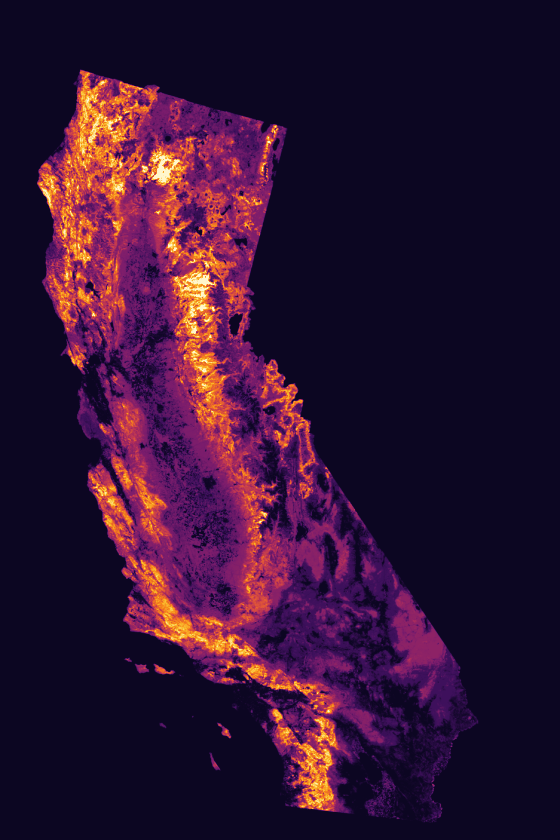
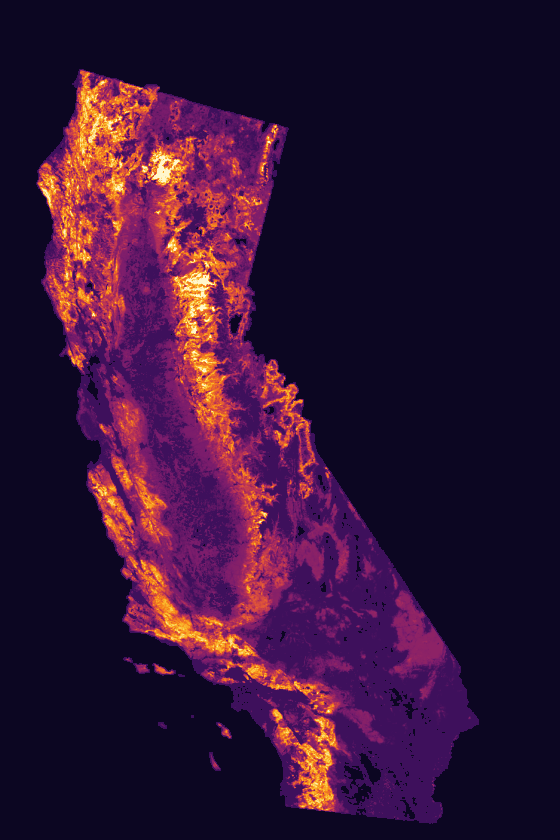
Fix fire-layer no-data; drop named wins; add credits; homepage rewords
DATA CORRECTION - the documentation is wrong on this and needs fixing at
source. Sampled the rasters directly: Fire_ELMFire_FL, _ROS and
_BurnProbabilityRelative store masked ground as 0, not -9999. Their minimum
is 0 and -9999 never occurs. Ocean, Lake Tahoe and the Central Valley all
read 0 in those three while Veg_TreeFrac, Carbon_AGB and WaterFlux_Runoff
correctly read -9999 at the same points.

Consequences fixed:
- explore.html now sets nodata per layer, so those three no longer render
  the Pacific as data. Added the caveat that non-burnable ground inside the
  mask is also 0, so blank can mean "nothing would burn" as well as "no data"
- the same wrong claim corrected on data.html, use.html and the README
- homepage flame-length render regenerated with 0 as the fill, so the ocean
  is transparent instead of dark

Named comparisons - now asymmetric by design. Removed the four places that
named Pyrologix while beating them: the hub's "ahead" bullet, the flame
length one-liner, its cross-dataset strength line, and the panel d caption,
which now describes the test without declaring a winner. The figure still
shows both. Every remaining named comparison runs against us (Moran on all
four overlapping years). Section retitled from "wins and loses" to "strong
and falls short".

Credits - ELMFIRE and Chris Lautenberger (Reax Engineering) now credited by
name in About, plus a new "Built on other people's work" section covering
[…]

diff --git a/index.html b/index.html
@@ -348,11 +348,11 @@
 <!-- intro prose -->
 <section class="intro">
   <div class="wrap">
-    <p>Every property is expressed in physical units already in common use across the management and research communities, and all of them are calculated from the ground floor up by a single pipeline — which is what makes them consistent with one another, and over four decades.</p>
+    <p>Every property is expressed in physical units already in common use across the management and research communities, and all of them are calculated from the ground floor up by a single pipeline — which is what makes them consistent with one another, and over four decades. Each release reprocesses the whole record rather than appending new years; v2027, covering 1985 through water year 2026, is expected in November 2026.</p>
 
-    <p>Because vegetation, water, carbon, fuels and disturbance are all derived on one grid by one pipeline, questions that span themes — how evapotranspiration responds to canopy loss after a fire, say — can be asked directly, without first reconciling three products' grids, masks and epochs.</p>
+    <p>Because vegetation, water, carbon, fuels and disturbance are all derived on one grid by one pipeline, questions that span themes — for example, how evapotranspiration responds to canopy loss after a fire — can be asked directly, without having to first find, assemble and reconcile disparate datasets.</p>
 
-    <p>Produced by university scientists and shared freely under CC BY. Every release reprocesses the full record rather than appending new years: <strong>v2027, covering 1985 through water year 2026, is expected in November 2026.</strong></p>
+    <p>Produced by university scientists and shared freely under CC BY.</p>
 
     <p><strong>How good is it?</strong> Each layer is checked against independent reference data - field plots, flux towers, stream gauges, aerial survey - and the comparisons are published in full, layer by layer, including where the Almanac is weaker than the alternatives. Some layers are better constrained than others, and the differences matter for what you can ask of them.</p>
 
@@ -370,8 +370,7 @@
   <div class="wrap">
     <div class="scope-frame">
       <h2>What it covers</h2>
-      <p>The Almanac maps the vegetated, non-irrigated land surface of California - and the contiguous U.S. - <strong>managed and unmanaged forests, shrublands, and grasslands</strong>, from the backcountry to the wildland&ndash;urban interface. The data are produced wall&#8209;to&#8209;wall and then masked to exclude areas such as open water, urbanized land, and intensively managed cropland.</p>
-      <p>The dataset includes wilderness, intermix and interface areas, managed forests and plantations, and stands recently thinned, cut, or burned.</p>
+      <p>The Almanac maps the vegetated, non-irrigated land surface of California - and the contiguous U.S. - <strong>managed and unmanaged forests, shrublands, and grasslands</strong>, from the backcountry to the wildland&ndash;urban interface &mdash; including plantations and stands recently thinned, cut, or burned. The data are produced wall&#8209;to&#8209;wall and then masked to exclude areas such as open water, urbanized land, and intensively managed cropland.</p>
     </div>
   </div>
 </section>
@@ -442,9 +441,7 @@
 
       <div class="show-text">
         <h2>See it before you download it</h2>
-        <p><strong>Flame length, water year 2025.</strong> What would burn if a fire arrived under
-        typical local weather &mdash; the Sierra crest and the Coast Ranges bright, the Central
-        Valley masked out because it is not wildland.</p>
+        <p><strong>Flame length, water year 2025.</strong> What would burn if a fire arrived under typical local weather &mdash; brightest along the Sierra crest and through the Coast Ranges, with farmland and urban ground dropping out where the wildland mask excludes them.</p>
         <p>Every one of the 21 properties opens the same way: pick a layer and a year and it streams
         straight into your browser from cloud storage, with the colour range and no-data value
         already set. Nothing to install, nothing to download, no account.</p>
@@ -485,7 +482,7 @@
       <a class="card-link" id="benchmarking" href="benchmarking.html">
         <span class="k">03 · How good is it</span>
         <h3>Benchmarking</h3>
-        <p>What every layer was tested against, on three axes, with strengths and weaknesses at equal detail — including where the Almanac loses to the alternatives, and which comparisons are circular.</p>
+        <p>What the layers were tested against, on three axes, with strengths and weaknesses at equal detail — including where the Almanac loses to the alternatives, and which comparisons are circular.</p>
         <span class="go">See the results →</span>
       </a>
       <a class="card-link" id="use" href="use.html">
@@ -513,7 +510,7 @@
       </div>
       <div>
         <h4>Cite as</h4>
-        <div class="cite">Goulden, M.L. (2026). The Wildland Almanac - California (Version v2026.1). Source&nbsp;Cooperative. DOI:&nbsp;[to be assigned]. Released under CC&nbsp;BY.</div>
+        <div class="cite">Goulden, M.L. (2026). The Wildland Almanac - California (Version v2026.1). Source&nbsp;Cooperative. DOI:&nbsp;[pending &ndash; EZID]. Released under CC&nbsp;BY.</div>
         <p style="font-size:13px;color:var(--muted);margin:10px 0 0">Use of these data is subject to the University of California disclaimer. <a href="data.html#license">License &amp; terms →</a></p>
       </div>
     </div>
@@ -544,6 +541,9 @@
 </script>
 </body>
 </html>
+
+
+
 
 
 

diff --git a/about.html b/about.html
@@ -158,6 +158,27 @@
     <h2>How the data are produced</h2>
     <p>The Wildland Almanac is built from the full Landsat archive through a unified pipeline of roughly thirty programs - written mostly in MATLAB and R - that run sequentially under one code base. The pipeline is built to be re-run end-to-end for each annual update, which is what makes it possible to reprocess the entire 1985-onward time series consistently with every release rather than splicing new years onto old. Production runs on UCI&rsquo;s <a href="https://rcic.uci.edu/hpc3/hpc3.html">HPC3 cluster</a> and consumes approximately one million core-hours annually and 800&nbsp;TB of storage.</p>
     <p>The methodological backbone is straightforward: Landsat observations are processed through the <a href="https://github.com/GERSL">COLD</a> change-detection package to identify disturbances and to synthesize gap-free imagery for each pixel and year; those synthetic images are combined with top-tier training data (the <a href="https://rangeland.ntsg.umt.edu/data/rap/chm-naip/chm/">ALS-derived canopy-height model</a> of Allred et al. for height; FIA plots for biomass; AmeriFlux towers for water and carbon fluxes; and so on); and the resulting properties are estimated with gradient-boosted machine learning (XGBoost and LightGBM) or regressions. Additional information on training data and methods for each property is in <a href="data.html">The Data</a>, how well each one performs is in <a href="benchmarking.html">Benchmarking</a>, and the full specifications are in the <a href="https://data.source.coop/wildland-almanac/california/WildlandAlmanac_CA_Documentation.pdf">documentation PDF</a>.</p>
+    <p>The fire-behaviour layers are computed with <a href="https://elmfire.io/">ELMFIRE</a>, the open-source fire spread model developed by <strong>Chris Lautenberger</strong> at Reax Engineering. Being able to run a capable, well-documented, openly licensed fire model at statewide scale for forty-one years is the reason those layers exist at all, and it saved this project years. We are glad to say so.</p>
+  </div>
+</section>
+
+<section class="block">
+  <div class="wrap">
+    <h2>Built on other people's work</h2>
+    <p class="sec-lede">The Almanac is an assembly as much as an invention. Nearly every layer rests on
+    a model, an algorithm or a field campaign that someone else built and chose to share. These are the
+    ones it leans on hardest.</p>
+    <div class="compare">
+      <div class="r"><div class="n">Landsat</div><div class="d">USGS and NASA. Forty-one continuous years of free, calibrated, openly licensed imagery is the single thing that makes a record like this possible.</div></div>
+      <div class="r"><div class="n"><a href="https://elmfire.io/">ELMFIRE</a></div><div class="d">Chris Lautenberger, Reax Engineering. The open-source fire spread model behind flame length, rate of spread and burn probability.</div></div>
+      <div class="r"><div class="n"><a href="https://github.com/GERSL">COLD / CCDC</a></div><div class="d">Zhe Zhu and the Global Environmental Remote Sensing Lab. Change detection and the gap-free synthetic imagery every other layer is built from.</div></div>
+      <div class="r"><div class="n"><a href="https://rangelands.app/">RAP</a></div><div class="d">Rangeland Analysis Platform. Training data for shrub, herbaceous and bare cover, and the <a href="https://rangeland.ntsg.umt.edu/data/rap/chm-naip/chm/">ALS canopy-height model</a> of Allred et al. that the height layer is trained on.</div></div>
+      <div class="r"><div class="n"><a href="https://landfire.gov/fuel">LANDFIRE</a></div><div class="d">Fuel model, canopy base height and bulk density training, plus the static terrain bands of the fire landscape.</div></div>
+      <div class="r"><div class="n"><a href="https://research.fs.usda.gov/products/dataandtools/fia-datamart">FIA</a> and <a href="https://data.fs.usda.gov/geodata/rastergateway/treecanopycover/">USFS TCC</a></div><div class="d">Forest Inventory and Analysis plots for biomass, and the national tree-canopy-cover product for tree fraction.</div></div>
+      <div class="r"><div class="n"><a href="https://ameriflux.lbl.gov/">AmeriFlux</a> and <a href="https://prism.oregonstate.edu/">PRISM</a></div><div class="d">Eddy-covariance flux towers and gridded meteorology, behind every water and carbon layer.</div></div>
+      <div class="r"><div class="n">Benchmark references</div><div class="d">MTBS, Hansen/UMD Global Forest Change, GEDI, NLCD tree canopy cover, RCMAP, USGS NWIS and CDEC gauge records, USFS Forests-to-Faucets, the USFS aerial detection survey, Brodrick and Asner's canopy water content, Moran et al., and Pyrologix &mdash; the independent yardsticks used in <a href="benchmarking.html">Benchmarking</a>. Several of them are better than the Almanac at what they were built for, and the benchmarks say so where that is the case.</div></div>
+      <div class="r"><div class="n"><a href="https://source.coop/wildland-almanac">Source Cooperative</a></div><div class="d">Hosting, at no cost, for a dataset that would otherwise need a budget line just to stay reachable.</div></div>
+    </div>
   </div>
 </section>
 

diff --git a/data.html b/data.html
@@ -454,7 +454,7 @@
     <div class="note warn"><b>Use one release end-to-end.</b> Every annual version reprocesses the full 1985-onward series under one code base, so values for a given year may differ between versions. Do not splice years from different versions in a time-series analysis.</div>
     <div class="note"><b>Masking.</b> Layers are masked to the California wildland extent. Excluded and set to no-data: open water, ocean and inland, from the LANDFIRE Existing Vegetation Type layer; everything outside California; urban, agricultural, water, barren and unclassified land (CALFIRE FVEG WHR types 0 and 46&ndash;49); and a set of non-target EPA Level-IV ecoregions (the Central Valley and specified deserts). This release drops a vegetation-richness threshold used in earlier CECS products, so slightly more pixels are retained. The mask is not necessarily complete. For landscape-scale statistics (e.g. total biomass over a watershed), treat masked pixels as missing, not zero.</div>
     <div class="note"><b>Grid.</b> EPSG:5070 (NAD83 / CONUS Albers) at 30&nbsp;m, on the same continental grid as the CONUS release. California is <b>45,000 rows × 30,000 columns</b>, extent &minus;2,415,585, 1,214,805 to &minus;1,515,585, 2,564,805. All layers are co-registered to sub-pixel precision, so the 21 properties can be treated as a single stack. Files are LZW-compressed BigTIFF COGs with overviews — mode resampling for the categorical fuel-model band, nearest for aspect, average for everything else.</div>
-    <div class="note"><b>No-data and recent years.</b> No-data is <code>−9999</code> for all layers except Fire_LCP, where it is <code>0</code> (FARSITE convention). Some recent water years are less constrained - WY2023 reflects extreme California snowpack, and WY2025 is subject to refinement in future releases. For year-specific work, compare against nearby years.</div>
+    <div class="note"><b>No-data and recent years.</b> No-data is <code>&minus;9999</code> for most layers, but <code>0</code> for all seven fire layers &mdash; the eight Fire_LCP bands by FARSITE convention, and <code>Fire_ELMFire_FL</code>, <code>_ROS</code> and <code>_BurnProbabilityRelative</code>, in which masked ground is stored as zero rather than as a fill value. On those three, genuinely non-burnable ground inside the mask is also 0, so a zero cannot be distinguished from no-data on the raster alone. Some recent water years are less constrained - WY2023 reflects extreme California snowpack, and WY2025 is subject to refinement in future releases. For year-specific work, compare against nearby years.</div>
   </div>
 </section>
 
@@ -464,7 +464,7 @@
     <h2>License &amp; citation</h2>
     <p class="sec-lede">Released under <a href="https://creativecommons.org/licenses/by/4.0/">Creative Commons Attribution 4.0 (CC BY)</a>. Free to use, share, and adapt with attribution. Offered as is, with no promise of technical support; please file feedback and reports of errors on the <a href="https://github.com/wildland-almanac/wildland-almanac-site/issues">GitHub issue tracker</a>.</p>
     <div class="note warn"><b>University of California disclaimer.</b> The University of California ("UC") makes these materials available pursuant to the following disclaimers: the materials are offered "as is"; user assumes any and all risks, of any kind or amount, of using these materials; user shall use the materials only in accordance with law; user releases, waives, discharges and promises not to sue UC, its directors, officers, employees or agents, from liability from any and all claims, including the negligence of UC, resulting in personal injury (including death), accidents or illnesses, property loss, as well as any and all loss of business and/or profit in connection with user's use of the materials; and user shall indemnify and hold UC harmless from any and all claims, actions, suits, procedures, costs, expenses, damages, and liabilities, including attorney's fees, arising out of user's use of the materials and shall reimburse UC for any such incurred expenses, fees or costs. Use of these materials implies user consent to these terms.</div>
-    <div class="cite">Goulden, M.L. (2026). The Wildland Almanac - California (Version v2026.1). Source&nbsp;Cooperative. DOI:&nbsp;[to be assigned]. Released under CC&nbsp;BY.</div>
+    <div class="cite">Goulden, M.L. (2026). The Wildland Almanac - California (Version v2026.1). Source&nbsp;Cooperative. DOI:&nbsp;[pending &ndash; EZID]. Released under CC&nbsp;BY.</div>
   </div>
 </section>
 
@@ -479,6 +479,8 @@
 
 </body>
 </html>
+
+
 
 
 

diff --git a/bench-fire-flamelength.html b/bench-fire-flamelength.html
@@ -105,7 +105,7 @@
 <div class="pagehead">
   <div class="wrap">
     <h1>Fire: flame length</h1>
-    <p class="lede">Beats a published commercial model at predicting where severe fire later occurred, in both years where a matched comparison is possible.</p>
+    <p class="lede">Identifies where severe fire later occurred with consistent skill across the whole 39-year record, and shows an ecologically plausible fuel build-up in undisturbed forest.</p>
     <div class="specs">
       <span><b>Layer</b>&nbsp;Fire_ELMFire_FL</span>
       <span><b>3</b>&nbsp;evidence axes</span>
@@ -126,7 +126,7 @@
       <p class="panels"><b>a</b> &nbsp;WA flame length against Pyrologix, a published commercial model, for the same places. Same pattern (R&sup2; 0.62); WA reads lower because it uses a different crown-fire model.</p>
       <p class="panels"><b>b</b> &nbsp;How severely fires actually burned, grouped by WA's predicted flame length. Severe area climbs steeply from the lowest tenth to the highest.</p>
       <p class="panels"><b>c</b> &nbsp;Each year 1986-2024: the share of severely burned area falling in the top 20% of predicted flame length. Above chance (0.20) in all 39 years, and always better than predicting from burned area alone.</p>
-      <p class="panels"><b>d</b> &nbsp;WA against Pyrologix on the identical test, for the two years Pyrologix covers. WA scores higher in both.</p>
+      <p class="panels"><b>d</b> &nbsp;The same test applied to WA and to Pyrologix, for the two years Pyrologix covers, so the two are scored identically.</p>
       <p class="panels"><b>e</b> &nbsp;Average WA flame length 1995-2024 for forest never disturbed. Gradual, ecologically plausible fuel build-up with no jumps at the Landsat changeovers.</p>
   </div>
 </section>
@@ -142,7 +142,7 @@
         <tbody>
           <tr><td class="axis">External skill</td><td>A clear relationship between predicted flame length and subsequent high-severity fire, with cap20 of 0.61 - that is, 61% of severe fire occurs in pixels that were in the top 20% of predicted flame length the previous year [c]. Skill is consistent across the whole 40-year record: cap20 averages <b>0.605</b>, exceeding random by more than 200%, with little or no degradation back to the 1980s.</td><td>Not all fuel classes behave alike. GR, GS and TL match or beat the pooled 0.61 within class, but SH and TU fall to 0.28-0.42. The layers use weighted weather reflecting local climatology and do not consider local ignition probability; they are not predictions of severity for any specific fire, where weather variation is a strong driver.</td></tr>
           <tr><td class="axis">Internal coherence</td><td>Undisturbed-cohort flame length rises 3.2% across the record, 1.93 to 1.99 m (+0.0024 m/yr), reflecting gradual and ecologically plausible fuel build-up [e]. Landsat transitions are clean, with no step changes or inflections.</td><td>&mdash;</td></tr>
-          <tr><td class="axis">Cross-dataset consistency</td><td>Good agreement with contemporaneous Pyrologix flame length (R&sup2; 0.62) [a]. <b>On the matched predictive test WA scores higher in both available years: 0.645 against 0.575 (2021) and 0.789 against 0.677 (2022)</b> [c, d].</td><td>The magnitude difference against Pyrologix likely reflects contrasting crown-fire models - WA uses ELMFIRE's Cruz algorithm, which yields lower flame lengths than the Scott parameterisation Pyrologix uses. So the level is not directly comparable even though the pattern and the skill are.</td></tr>
+          <tr><td class="axis">Cross-dataset consistency</td><td>Good agreement with contemporaneous Pyrologix flame length (R&sup2; 0.62) [a]. Both are also scored against subsequent severe fire on the identical test, for the two years Pyrologix covers [c, d] — the figure shows the result.</td><td>The magnitude difference against Pyrologix likely reflects contrasting crown-fire models - WA uses ELMFIRE's Cruz algorithm, which yields lower flame lengths than the Scott parameterisation Pyrologix uses. So the level is not directly comparable even though the pattern and the skill are.</td></tr>
         </tbody>
       </table>
     </div>
@@ -166,4 +166,3 @@
 </footer>
 </body>
 </html>
-

diff --git a/explore.html b/explore.html
@@ -130,9 +130,14 @@
       <a href="data.html">The Data</a> and the
       <a href="https://data.source.coop/wildland-almanac/california/WildlandAlmanac_CA_Documentation.pdf">documentation PDF</a>.
     </div>
-    <p><strong>No-data is &minus;9999 for every layer except the fire landscape</strong>, where it is
-    0 by FARSITE convention. The links below already set this, so masked ground renders as blank
-    rather than as an extreme value.</p>
+    <p><strong>No-data is &minus;9999 for most layers, but 0 for all seven fire layers</strong> &mdash; the
+    eight Fire_LCP bands by FARSITE convention, and flame length, rate of spread and burn probability
+    because masked ground in those is stored as zero rather than as a fill value. The links above set the
+    right value per layer, so ocean and masked ground render blank rather than as data.</p>
+    <p>One consequence worth knowing on the three fire-behaviour layers: <strong>genuinely non-burnable
+    ground inside the wildland mask is stored as 0 as well</strong>, so it renders blank too. Blank there
+    means &ldquo;nothing would burn&rdquo; as often as it means &ldquo;no data&rdquo; &mdash; the two cannot
+    be told apart from the raster alone.</p>
     <p>The colour stretches are chosen to show structure across California as a whole, not to be
     optimal for any one place. Once the viewer is open you can change the stretch, the colour map and
     the basemap; the whole view lives in the URL, so any view you arrive at is shareable.</p>
@@ -180,9 +185,9 @@ const THEMES = [
    {id:"WaterFlux_SoilmoistureFrac",   nm:"Soil moisture fraction",              u:"fraction &times;10,000", cm:"BrBG", rs:"0,10000", ds:"The same, as a fraction of maximum storage - normalises for soil capacity."}
  ]},
  { name:"Fire hazard &amp; behavior", desc:"Conditional climatologies - what would burn under typical local weather, not a forecast for any particular fire.", layers:[
-   {id:"Fire_ELMFire_FL",  nm:"Flame length",  u:"metres &times;100",   cm:"inferno", rs:"0,400",  ds:"Characteristic flame length, weighted across 240 weather scenarios."},
-   {id:"Fire_ELMFire_ROS", nm:"Rate of spread",u:"(m/min) &times;100",  cm:"inferno", rs:"0,1500", ds:"Characteristic rate of spread, from the same runs."},
-   {id:"Fire_ELMFire_BurnProbabilityRelative", nm:"Relative burn probability", u:"relative, unitless", cm:"magma", rs:"0,100", ds:"Share of simulated fires reaching each pixel. Comparable across space and years; not an annual probability."}
+   {id:"Fire_ELMFire_FL",  nm:"Flame length",  u:"metres &times;100",   cm:"inferno", rs:"0,400",  nd:"0", ds:"Characteristic flame length, weighted across 240 weather scenarios."},
+   {id:"Fire_ELMFire_ROS", nm:"Rate of spread",u:"(m/min) &times;100",  cm:"inferno", rs:"0,1500", nd:"0", ds:"Characteristic rate of spread, from the same runs."},
+   {id:"Fire_ELMFire_BurnProbabilityRelative", nm:"Relative burn probability", u:"relative BP &times; 1,000,000", cm:"magma", rs:"0,100", nd:"0", ds:"Share of simulated fires reaching each pixel. Comparable across space and years; not an annual probability."}
  ]},
  { name:"Fire landscape (Fire_LCP)", desc:"The eight bands of a FARSITE/FlamMap landscape, delivered as separate single-band files. No-data is 0 here, not &minus;9999.", lcp:true, layers:[
    {b:"FBFM40",    nm:"Fuel model",        u:"Scott &amp; Burgan FBFM40, categorical", cm:"tab20",   rs:"0,204", ds:"Surface fuel model.", dyn:true},
@@ -229,7 +234,7 @@ function render(year){
     h += `<div class="grid">`;
 
     for(const L of th.layers){
-      const nodata = th.lcp ? "0" : "-9999";
+      const nodata = L.nd ? L.nd : (th.lcp ? "0" : "-9999");
       let file, dir, label, avail = true;
 
       if(th.lcp){
@@ -275,5 +280,7 @@ sync();
 </script>
 </body>
 </html>
+
+
 
 

diff --git a/benchmarking.html b/benchmarking.html
@@ -189,13 +189,10 @@
 
 <section class="block">
   <div class="wrap">
-    <h2>Where the Almanac wins, and where it loses</h2>
-    <p class="sec-lede">Head-to-head results against named alternatives, in both directions.</p>
-    <h3>Ahead</h3>
+    <h2>Where the Almanac is strong, and where it falls short</h2>
+    <p class="sec-lede">What the measurements support, and where they do not. Where another product does better, it is named.</p>
+    <h3>Well supported</h3>
     <ul>
-      <li><strong>Flame length beats Pyrologix at predicting severe fire</strong> - on the identical
-      matched test, 0.645 against 0.575 (2021) and 0.789 against 0.677 (2022), the only two years a
-      matched comparison is possible.</li>
       <li><strong>Four decades of consistent fire skill.</strong> Flame-length cap20 averages 0.605
       across 39 years, above chance in every one, with little degradation back to the 1980s. No
       alternative product exists over that span to compare against.</li>
@@ -204,7 +201,7 @@
       <li><strong>Seam-free across four Landsat changeovers</strong> in every property tested. This is
       the axis the Almanac is built for, and it is not routinely reported elsewhere.</li>
     </ul>
-    <h3>Behind</h3>
+    <h3>Weaker, and by how much</h3>
     <ul>
       <li><strong>Moran's annually-updated FSim burn probability beats WA on all four overlapping
       years</strong>, with a large gap in the high-fire year 2020 (-0.100). WA is also not calibrated
@@ -267,7 +264,7 @@
       <a class="card-link" href="bench-fire-flamelength.html">
         <span class="k">Fire_ELMFire_FL</span>
         <h3>Fire: flame length</h3>
-        <p>Beats a published commercial model at predicting where severe fire later occurred, in both years where a matched comparison is possible.</p>
+        <p>Identifies where severe fire later occurred with consistent skill across the whole 39-year record, and shows an ecologically plausible fuel build-up in undisturbed forest.</p>
         <div class="verdict"><span class="pill hi">High</span> <span class="pill lo">Lower</span></div>
       </a>
       <a class="card-link" href="bench-fire-burnprobability.html">
@@ -304,4 +301,3 @@
 </footer>
 </body>
 </html>
-

diff --git a/use.html b/use.html
@@ -424,7 +424,7 @@ agb <- rast(url)
 agb            <span class="comment"># prints extent, CRS (EPSG:5070), resolution</span>
 plot(agb)</pre>
 
-    <div class="note"><b>Projection.</b> All layers are EPSG:5070 (NAD83 / CONUS Albers), 30 m, co-registered to sub-pixel precision - treat the 21 properties as a single stack. No-data is <code>−9999</code> for all layers except Fire_LCP, where it is <code>0</code> (FARSITE convention).</div>
+    <div class="note"><b>Projection.</b> All layers are EPSG:5070 (NAD83 / CONUS Albers), 30 m, co-registered to sub-pixel precision - treat the 21 properties as a single stack. No-data is <code>&minus;9999</code> for most layers, but <code>0</code> for all seven fire layers &mdash; the eight Fire_LCP bands by FARSITE convention, and <code>Fire_ELMFire_FL</code>, <code>_ROS</code> and <code>_BurnProbabilityRelative</code>, in which masked ground is stored as zero.</div>
   </div>
 </section>
 
@@ -522,6 +522,7 @@ gdal_translate -projwin -2000000 2000000 -1900000 1900000 Fire_LCP_2020.vrt Fire
 
 </body>
 </html>
+
 
 
 

diff --git a/bench-agb.html b/bench-agb.html
@@ -168,4 +168,3 @@
 </footer>
 </body>
 </html>
-

diff --git a/bench-cover.html b/bench-cover.html
@@ -167,4 +167,3 @@
 </footer>
 </body>
 </html>
-

diff --git a/bench-dieoff.html b/bench-dieoff.html
@@ -167,4 +167,3 @@
 </footer>
 </body>
 </html>
-

diff --git a/bench-disturbance.html b/bench-disturbance.html
@@ -165,4 +165,3 @@
 </footer>
 </body>
 </html>
-

diff --git a/bench-fire-burnprobability.html b/bench-fire-burnprobability.html
@@ -166,4 +166,3 @@
 </footer>
 </body>
 </html>
-
